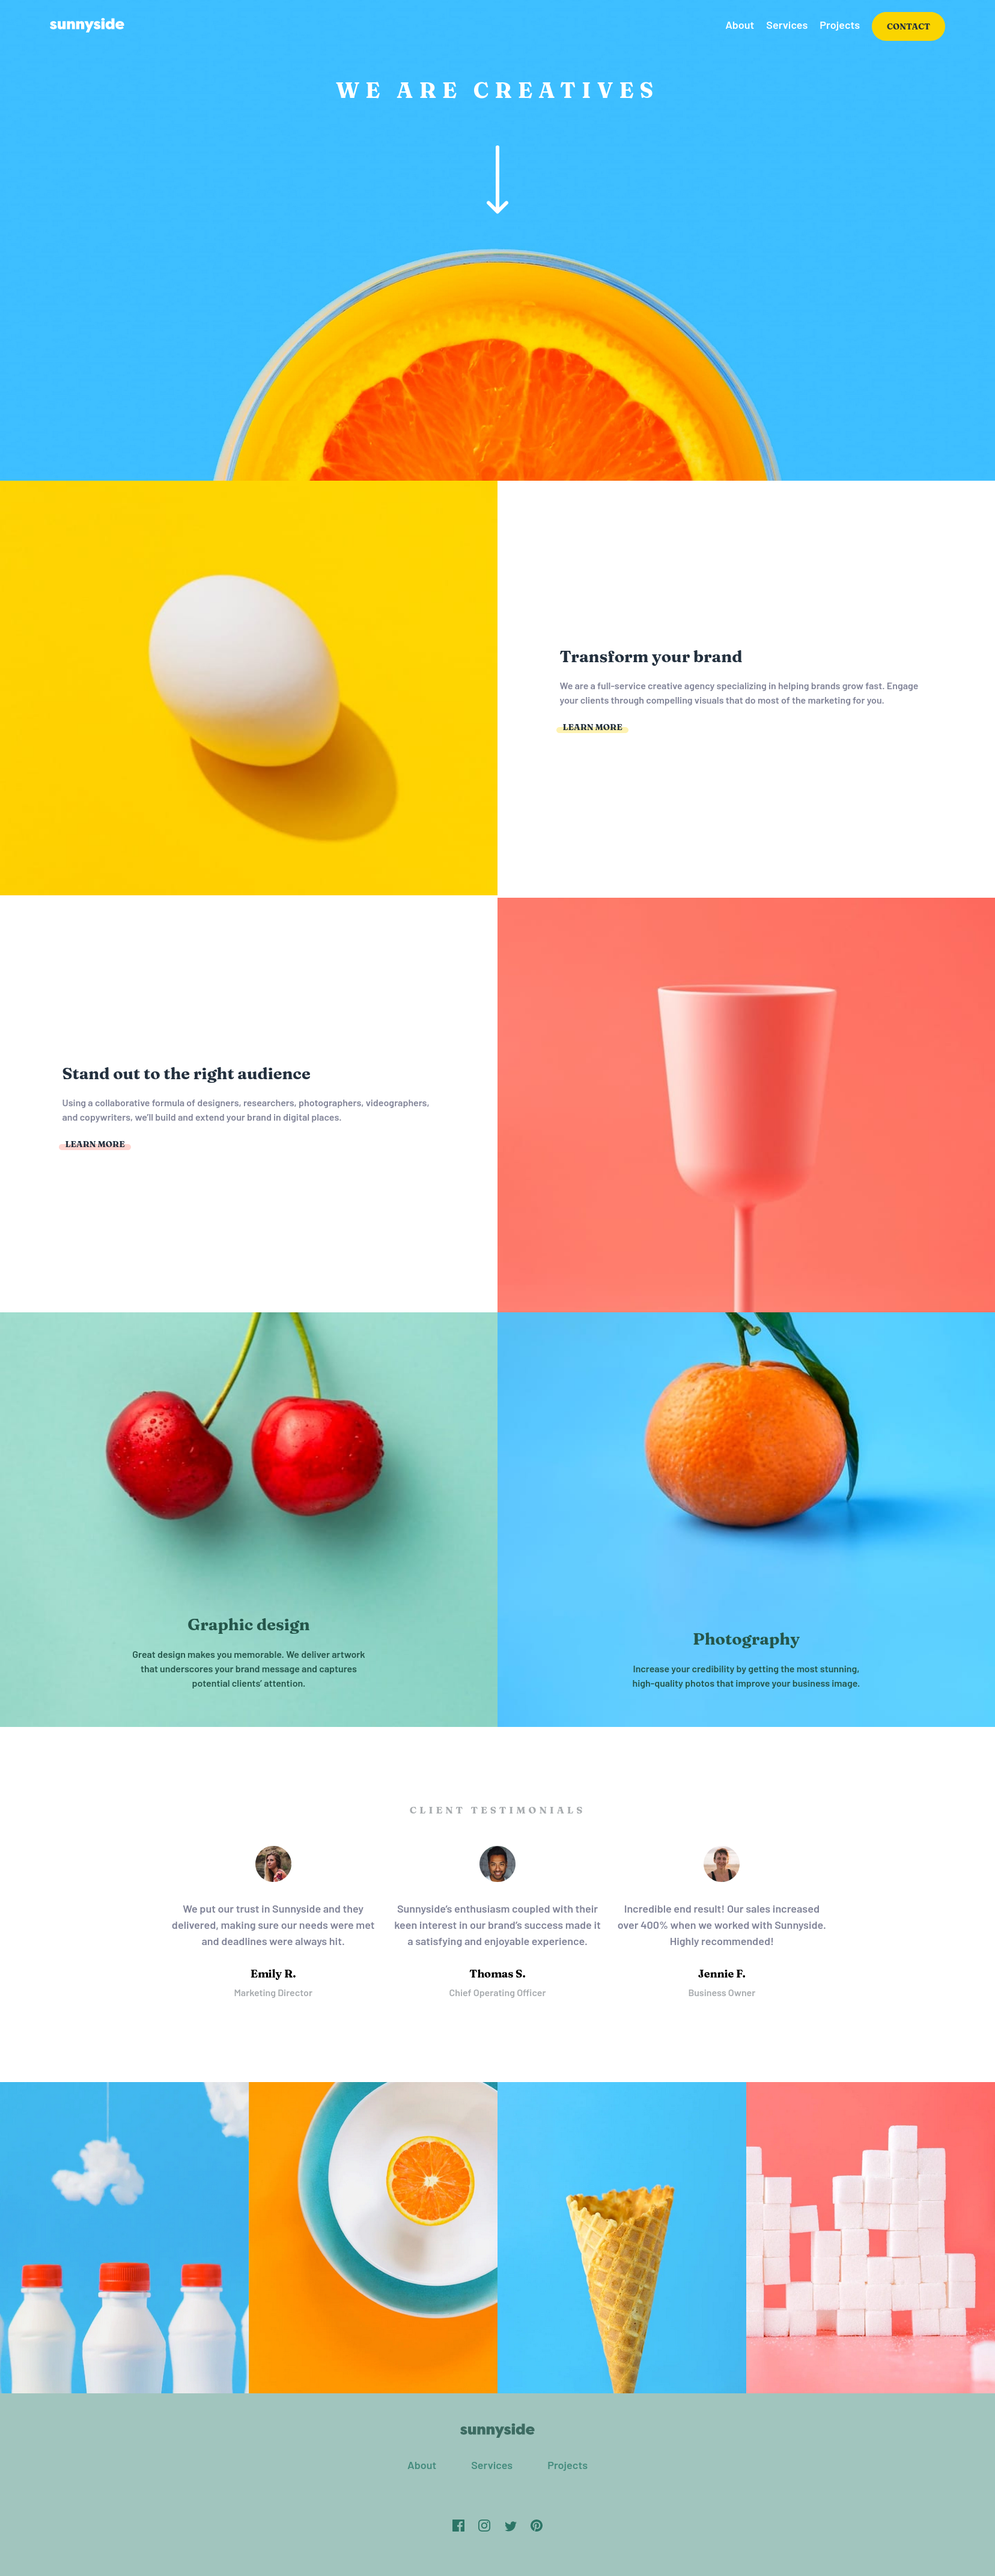
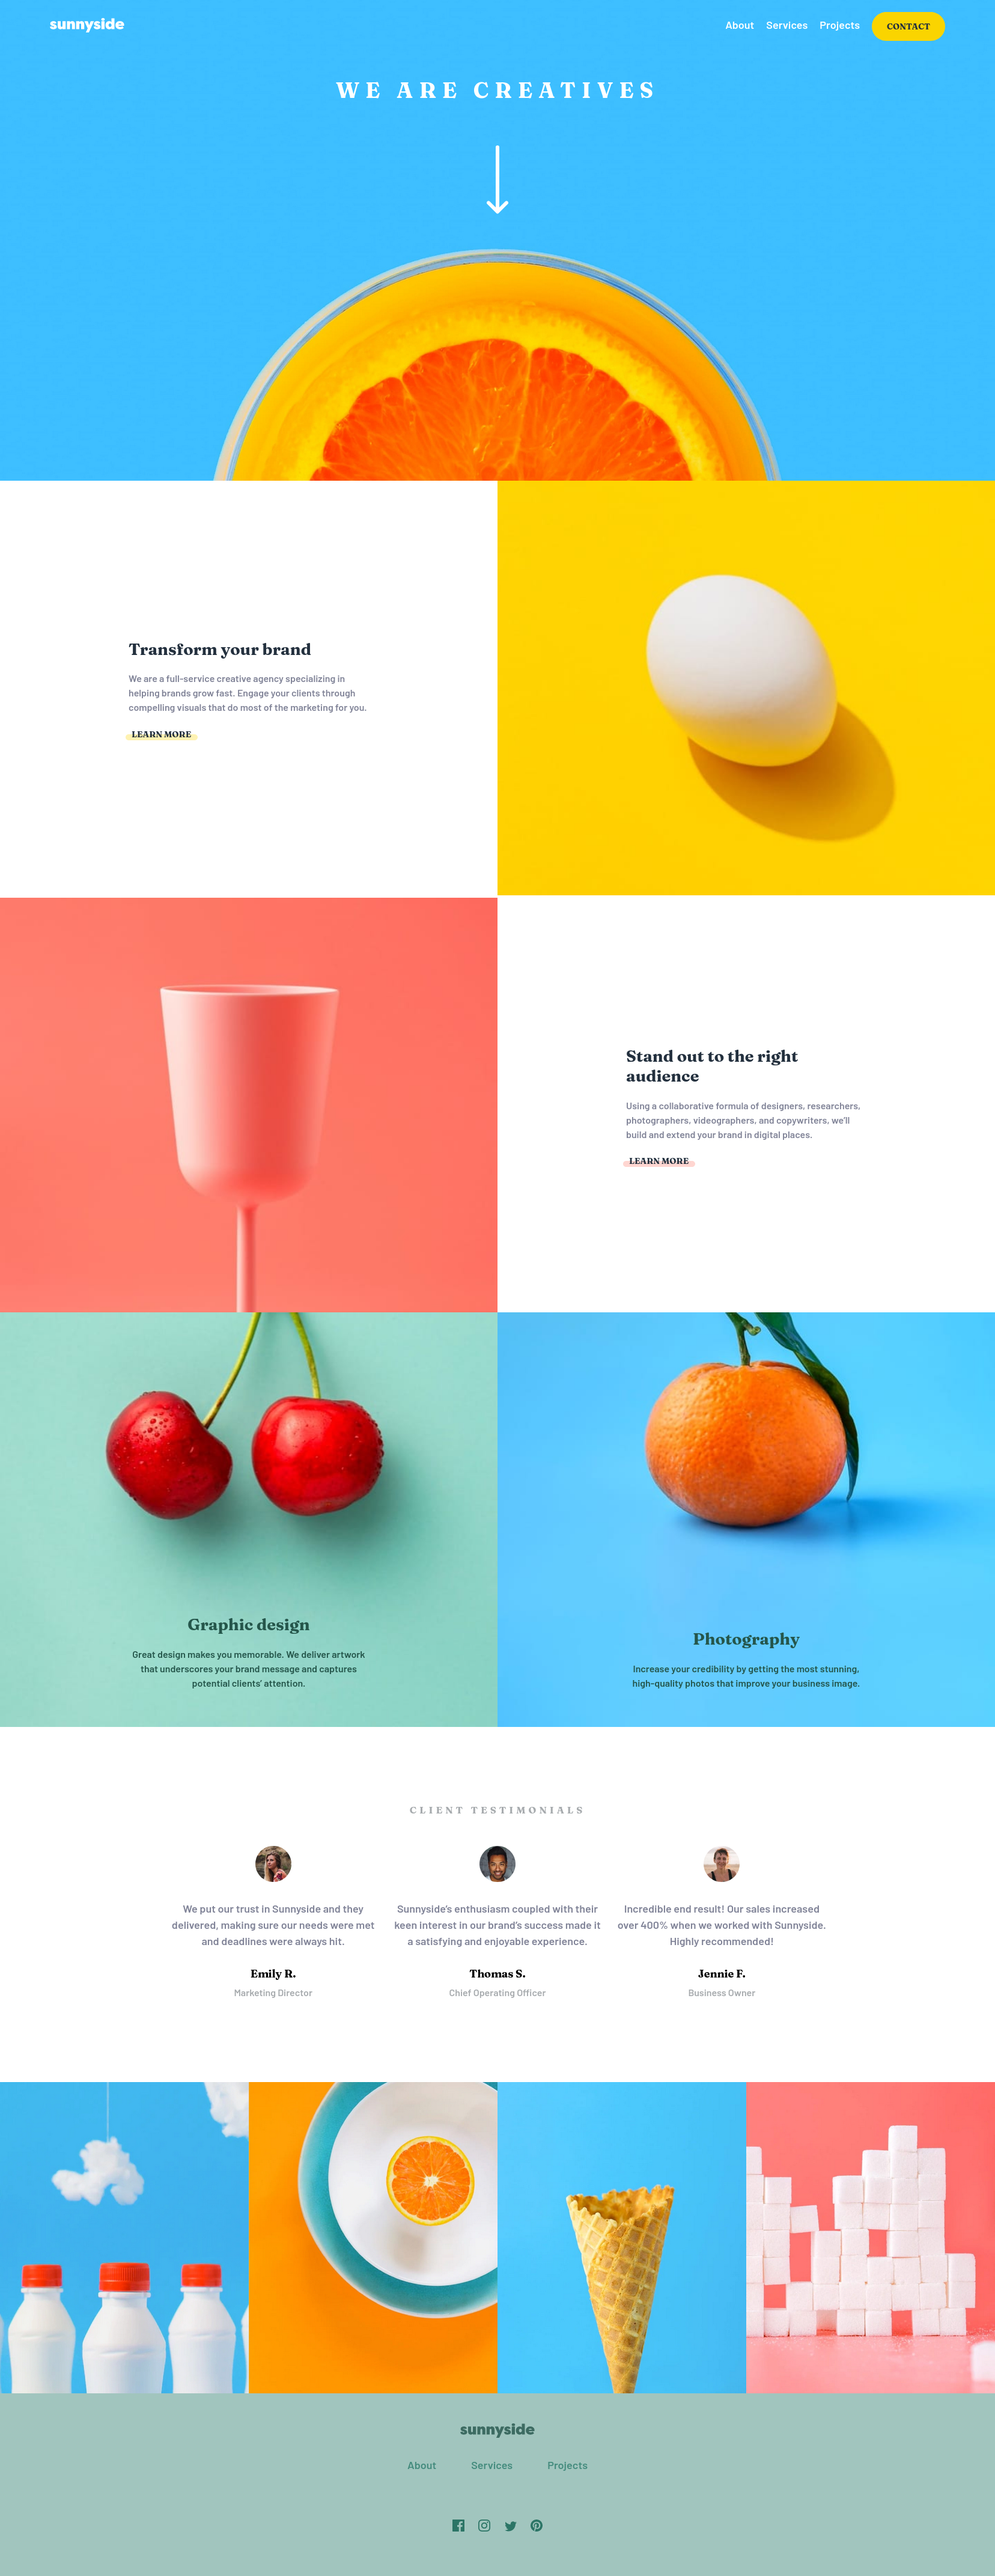
change illustration layout & screenshot

diff --git a/css/style.css b/css/style.css
@@ -191,6 +191,9 @@ body {
   .illustration__title, .illustration__text {
     text-align: left;
   }
+  .illustration__content:not(.illustration--blended .illustration__content) {
+    max-width: 40rem;
+  }
   .illustration--blended .illustration__title, .illustration--blended .illustration__text {
     text-align: center;
     width: 55%;
@@ -199,7 +202,7 @@ body {
   .illustration--blended .illustration__title {
     margin-bottom: 2rem;
   }
-  .illustration--mid .illustration__content {
+  .illustration:first-child .illustration__content {
     grid-row: 1/2;
   }
 }

diff --git a/sass/components/_illustration.scss b/sass/components/_illustration.scss
@@ -73,6 +73,10 @@
       text-align: left;
     }
 
+    &__content:not(&--blended .illustration__content) {
+      max-width: 40rem;
+    }
+
     &--blended {
       .illustration {
         &__title,
@@ -88,7 +92,7 @@
       }
     }
 
-    &--mid {
+    &:first-child {
       .illustration__content {
         grid-row: 1 / 2;
       }
